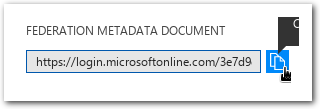
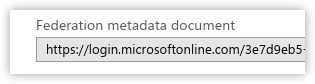
Bug #49416: Adapt wizard to Azure changes
* Updated manifest handling
* Added certificate down- and upload steps to wizard
* Updated wizard texts and screenshots (english)

diff --git a/umc/js/office365.js b/umc/js/office365.js
@@ -105,7 +105,7 @@ define([
 					}, {
 						name: 'complete',
 						type: Text,
-						content: this.formatOrderedList([_('Complete the <i>Add application</i> wizard in the Azure portal.')], {start: 9})
+						content: this.formatOrderedList([_('Complete the wizard in the Azure portal by clicking the <i>Register</i> button.')], {start: 9})
 					}]
 				}, {
 					name: 'ucs-integration',
@@ -131,8 +131,12 @@ define([
 						})
 					}, {
 						type: Text,
+						name: 'infosbottom',
+						content: this.getTextUCSIntegrationBottom()
+					}, {
+						type: Text,
 						name: 'continue',
-						content: this.formatOrderedList([_('Continue by clicking on <i>Next</i>.')], {start: 4})
+						content: this.formatOrderedList([_('Continue by clicking on <i>Next</i>.')], {start: 5})
 					}]
 				}, {
 					name: 'manifest-upload',
@@ -290,21 +294,28 @@ define([
 				_('Login to the <a href="https://portal.azure.com/" target="_blank">Microsoft Azure portal</a>.'),
 				_('Select the Azure Active Directory service. In case you have multiple Active Directories, click <i>Switch directory</i> to choose the one you wish to synchronize with UCS.') + this.img(_('AAD.png')),
 				_('Open the <i>APP REGISTRATIONS</i> module.') + this.img(_('app_registrations_EN.png')),
-				_('If existing applications are not shown, select <i>All apps</i>to the right of the search field.'),
-				_('Click <i>NEW APPLICATION REGISTRATION</i> to add a new application to your directory.') + this.img(_('top_bar_add_app_EN.png')),
+				_('If existing applications are not shown, select <i>All applications</i> above the search field.'),
+				_('Click <i>NEW REGISTRATION</i> to add a new application to your directory.') + this.img(_('top_bar_add_app_EN.png')),
 				_('Enter a name for your application, e.g. <i>UCS Office 365</i>.'),
-				_('As application type select <i>Web app / API</i>.') + this.img(_('app_name_EN.png')),
-				_('Copy the value below and paste it into the <i>Sign-on URL</i> field in the Azure wizard. Then click on the <i>Create</i> button in Azures Add-Application wizard.')
+				_('As supported account type select <i>Accounts in this organizational directory only</i>.') + this.img(_('app_name_EN.png')),
+				_('In the category <i>Redirect URI</i>, make sure <i>Web</i> is selected in the dropdown. Copy the value below and paste it into the textfield in the Azure wizard.')
 			]);
 		},
 
 		getTextUCSIntegration: function() {
 			return this.formatOrderedList([
 				_('Make sure the newly created application is selected or open it by clicking on it.'),
-				_('In the top navigation bar, click <i>MANIFEST</i> and then <i>DOWNLOAD</i>. It is not necessary to include the logo image. Save the manifest file on your computer.') + this.img(_('manage_manifest_EN.png')),
-				_('Scroll to the left to the first panel and click on <i>ENDPOINTS</i>. Copy the value for <i>FEDERATION METADATA DOCUMENT</i>.') + this.img(_('copy_tenant_id_EN.png')),
+				_('On the app <i>Overview</i>, click on <i>ENDPOINTS</i>. Copy the value for <i>FEDERATION METADATA DOCUMENT</i>.') + this.img(_('copy_tenant_id_EN.png')),
 				_('Insert the copied value into the text box below.')
 			]);
+		},
+
+		getTextUCSIntegrationBottom: function() {
+			return this.formatOrderedList([
+				lang.replace(_('Download the {link} which is used to prove the application’s identity when requesting a token.'), {link: '<a href="/univention/command/office365/o365_public_signing_cert.pem" target="_blank">' + _('public certificate key') + '</a>'}),
+				_('In the <i>Certificate & secrets</i> section, click on <i>Upload certificate</i> and select the certificate file that was downloaded in the above step. Click on <i>Add</i> to add the certificate to the Azure app.') + this.img(_('upload_certificate_EN.png')),
+				_('In the <i>Manage</i> section, select <i>MANIFEST</i> and then <i>DOWNLOAD</i> on the top. The manifest file will be downloaded onto your computer.') + this.img(_('manage_manifest_EN.png')),
+			], {start: 4});
 		},
 
 		getTextManifestUploadDomain: function() {
@@ -319,9 +330,9 @@ define([
 			return this.formatOrderedList([
 				_('If the download of the <i>manifest.json</i> file didn\'t start automatically <a download="manifest.json" href="/univention/command/office365/manifest.json" target="_blank">click here</a>.'),
 				_('Select your app, <i>MANIFEST</i> and <i>UPLOAD</i> the manifest in the Azure dashboard.'),
-				_('To upload the manifest in the panel click on <i>SELECT A FILE</i> and choose the previously downloaded <i>manifest.json</i>.') + this.img(_('azure_upload_manifest_window_EN.png')),
-				_('After the upload has succeeded, scroll to the left and open the <i>SETTINGS</i> to edit the <i>REQUIRED PERMISSIONS</i>.') + this.img(_('required_perms_btn_EN.png')),
-				_('The permissions have already be configured by the manifest. Click <i>GRANT PERMISSIONS</i> and <i>YES</i> in the following dialog.') + this.img(_('grant_perms_EN.png')) + this.img(_('grant_perms_yes_EN.png')),
+				_('To upload the manifest in the panel click on <i>SELECT A FILE</i> and choose the previously downloaded <i>manifest.json</i>. Click on <i>Save</i> to complete the upload.') + this.img(_('azure_upload_manifest_window_EN.png')),
+				_('After the upload has succeeded, select the <i>API permissions</i> section.') + this.img(_('required_perms_btn_EN.png')),
+				_('The permissions have already be configured by the manifest. Click the <i>Grant admin consent for ...</i> button and <i>Save</i> in the following dialog.') + this.img(_('grant_perms_EN.png')) + this.img(_('grant_perms_yes_EN.png')),
 				_('After the permission granting has succeeded continue this wizard by clicking on <i>Next</i>.')
 			]);
 		},
